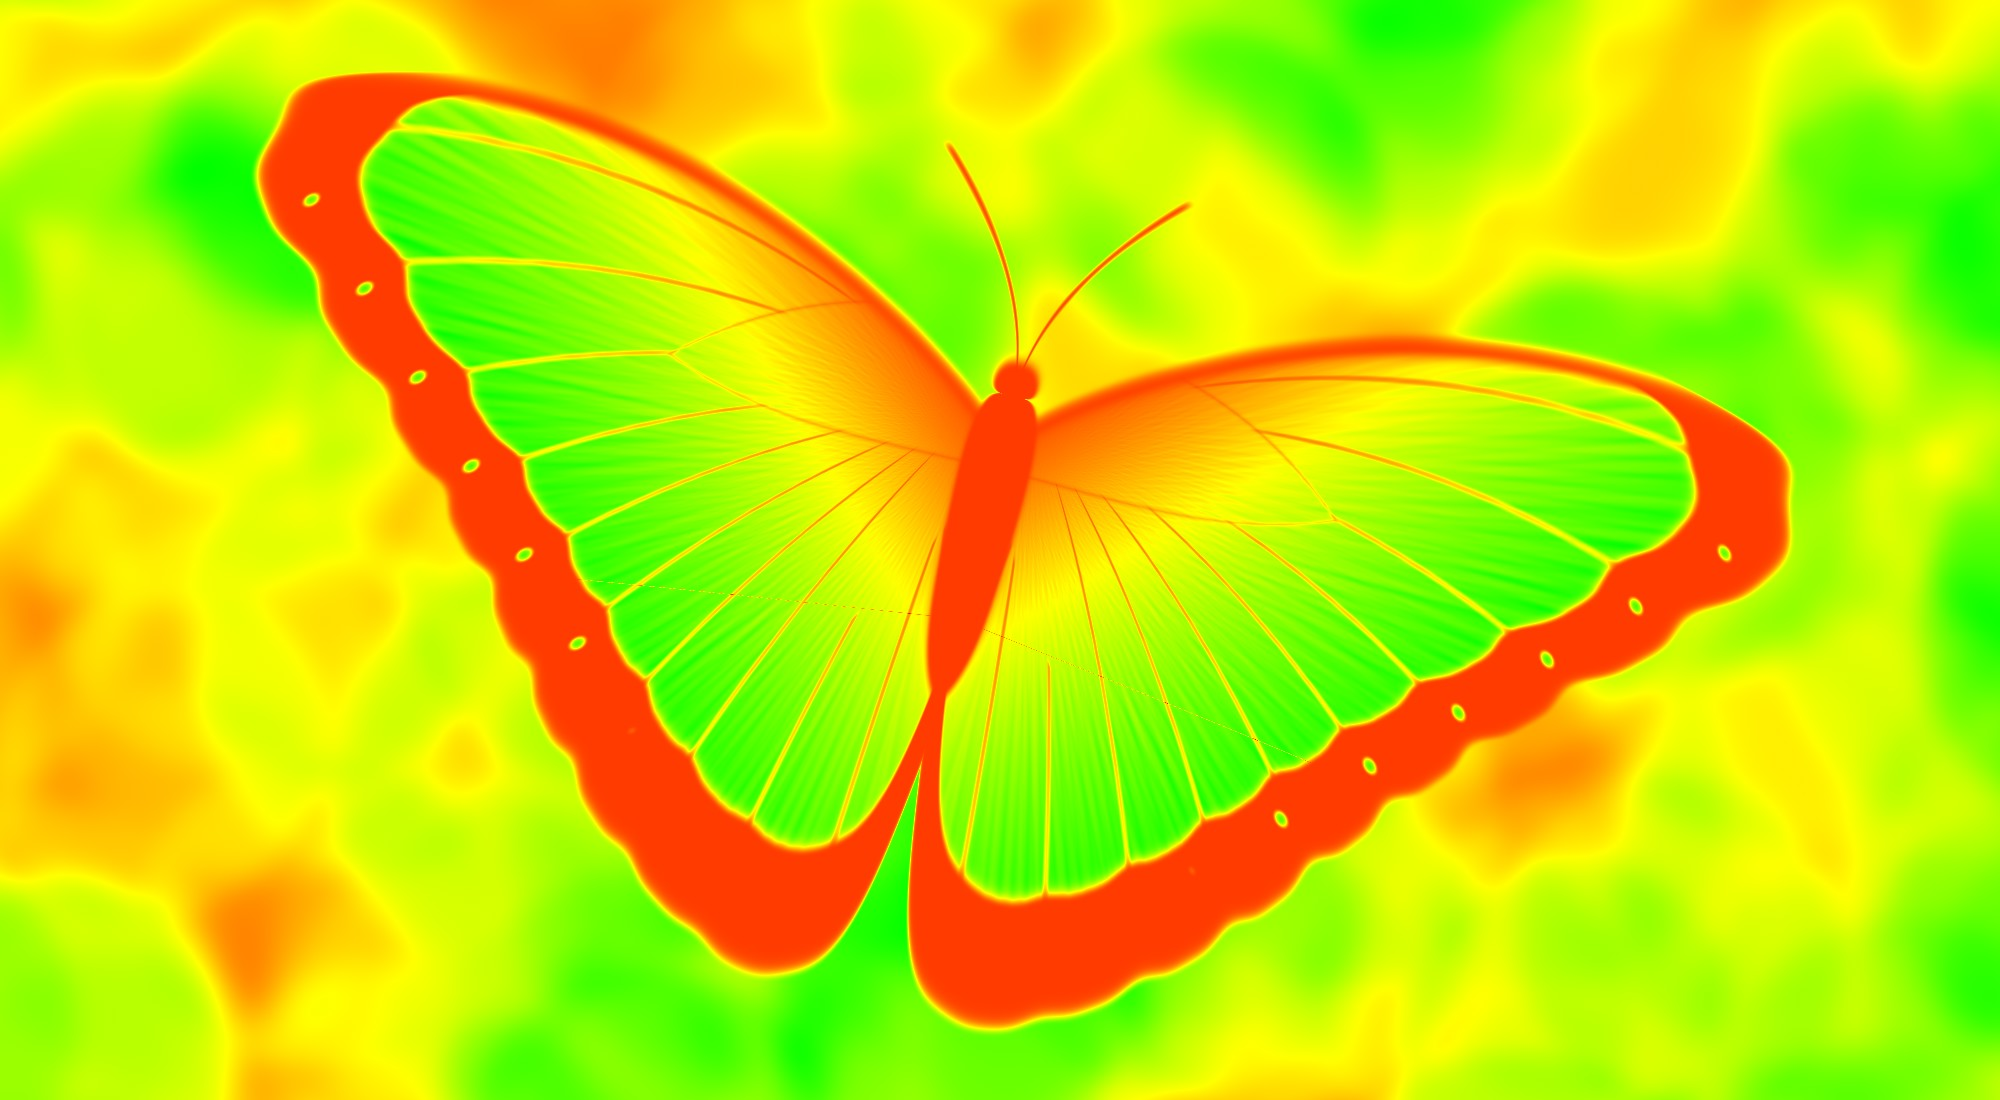
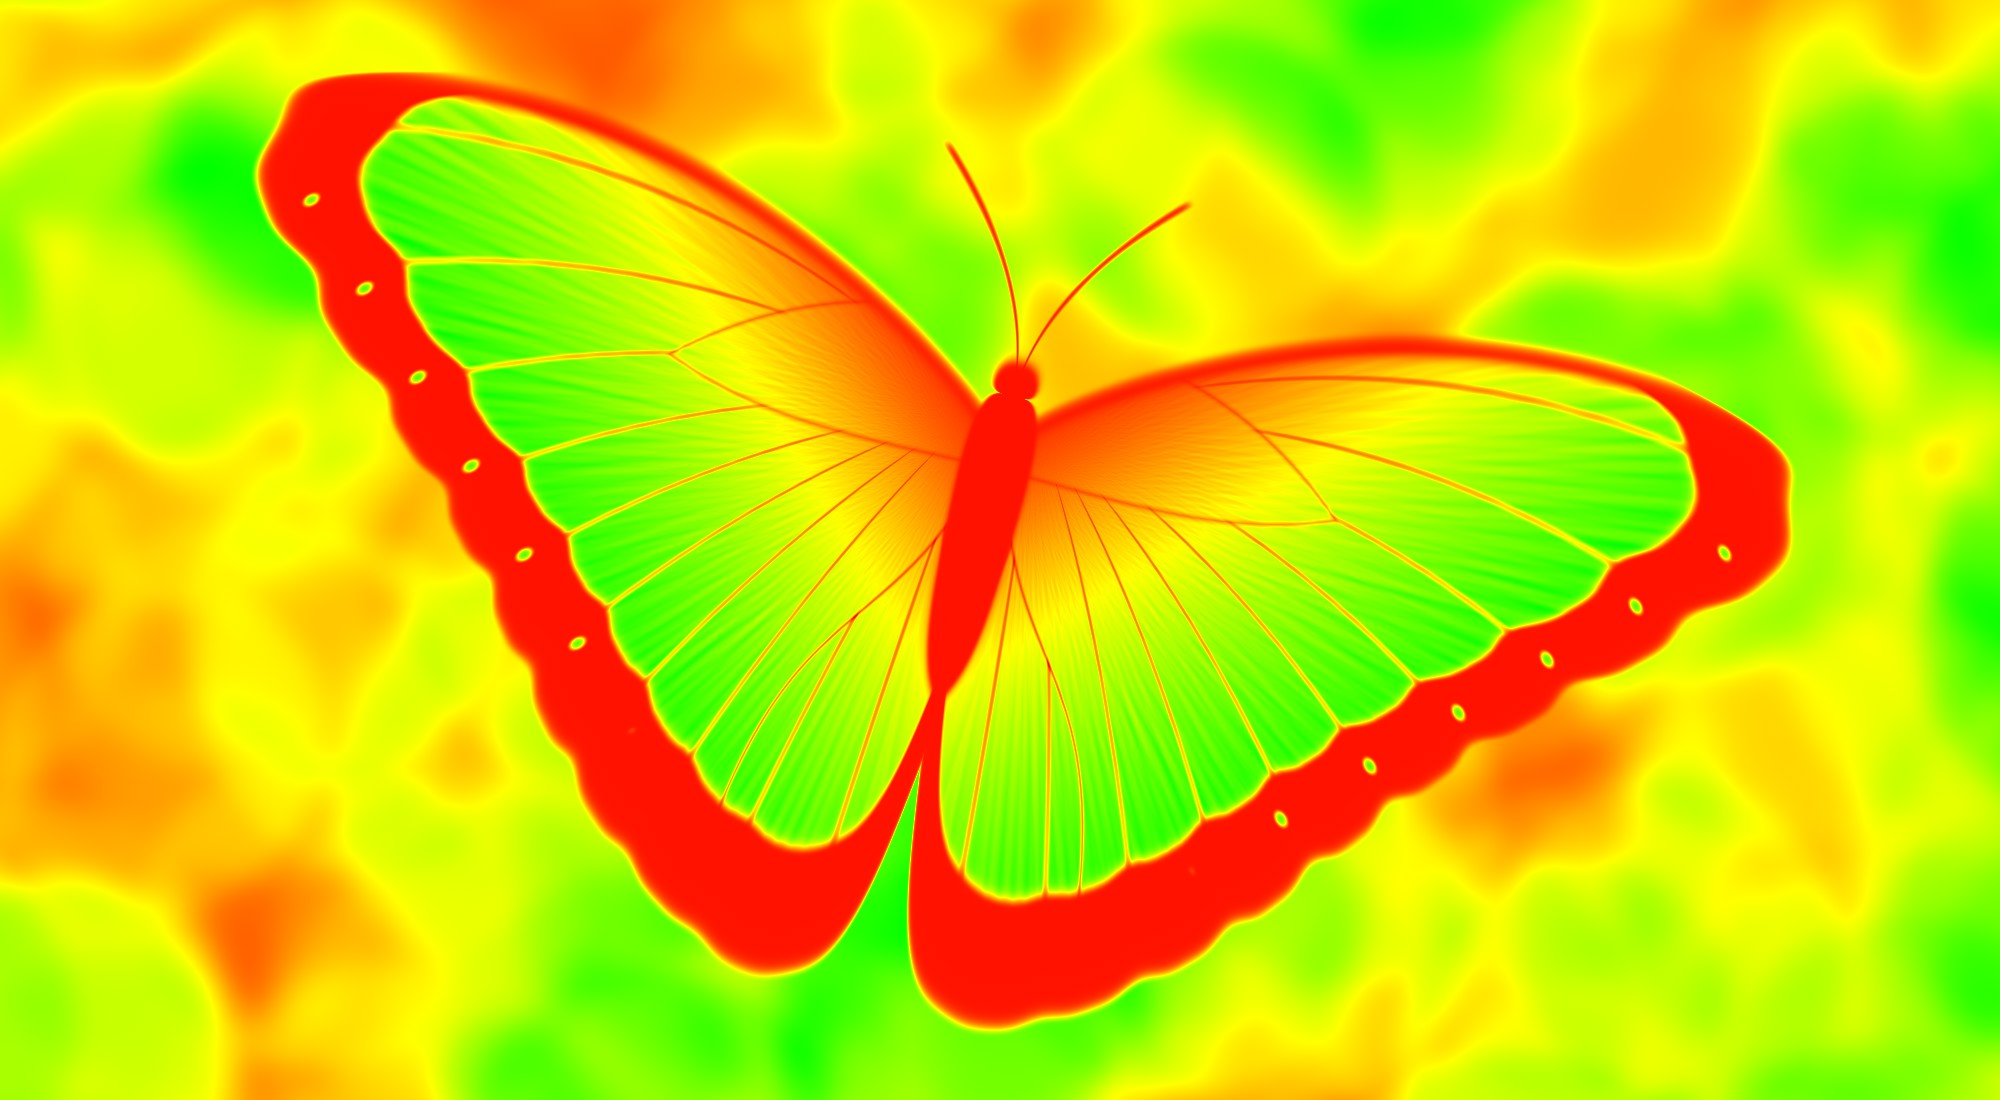
Correction in W formula

diff --git a/src/main.c b/src/main.c
@@ -57,8 +57,10 @@ static inline double W(double x, double y, double Cxy)
   const double omega2 = -(40.0 * (0 + (5.0 * fabs(y + (x * 0.25) - (3.0 / 50.0) + ((1.0 / 3.0) * (x - (y * 0.25)) * (x - (y * 0.25))))) + pow(fabs((2.0 * x) - (y * 0.5)), 3) - (2.0 / 5.0)));
   const double omega3 = -1000 * fabs(x - (y * 0.25)) + 100.0 - 90.0 * atan(8.0 * y + 2.0 * x + (8.0 / 5.0));
   const double omega4 = 1000 * (0.0 + fabs(x - y * 0.25) - (7.0 / 50.0) + (9.0 * (y + (x * 0.25) + 0.2) * (1.0 / 20.0)));
-  const double omega5 = 70 * fabs((5 * (fabs(y + x * 0.25 - (3.0 / 50.0) + ((1.0 / 3.0) * (x - (y * 0.25)) * (x - (y * 0.25)))))) + (pow(fabs((2.0 * x) - (y * 0.5)), 3)) - (2.0 / 5.0)) - (1.0 / 200.0);
-  const double omega6 = 700 * fabs(0.0 + fabs(x - y * 0.25) - 0.1 + (0.9 * atan(8.0 * (y + (x * 0.25) + 0.2)))) - (21.0 / 20.0);
+  // const double omega5 = 70 * fabs((5 * (fabs(y + x * 0.25 - (3.0 / 50.0) + ((1.0 / 3.0) * (x - (y * 0.25)) * (x - (y * 0.25)))))) + (pow(fabs((2.0 * x) - (y * 0.5)), 3)) - (2.0 / 5.0)) - (1.0 / 200.0);
+  const double omega5 = 70 * (fabs((5 * (fabs(y + x * 0.25 - (3.0 / 50.0) + ((1.0 / 3.0) * (x - (y * 0.25)) * (x - (y * 0.25)))))) + (pow(fabs((2.0 * x) - (y * 0.5)), 3)) - (2.0 / 5.0)) - (1.0 / 200.0));
+  // const double omega6 = 700 * fabs(0.0 + fabs(x - y * 0.25) - 0.1 + (0.9 * atan(8.0 * (y + (x * 0.25) + 0.2)))) - (21.0 / 20.0);
+  const double omega6 = 700 * fabs(0.0 + fabs(x - y * 0.25) - 0.1 + (0.09 * atan(8.0 * (y + (x * 0.25) + 0.2)))) - (21.0 / 20.0);
   const double res = (-exp_minus_exp_minus_exp(omega1, omega2)) * (1.0 - exp_minus_exp_minus_exp(omega3, omega4)) - exp_minus_exp(omega5) - exp_minus_exp(omega6) + 1.0;
   return res;
 }
